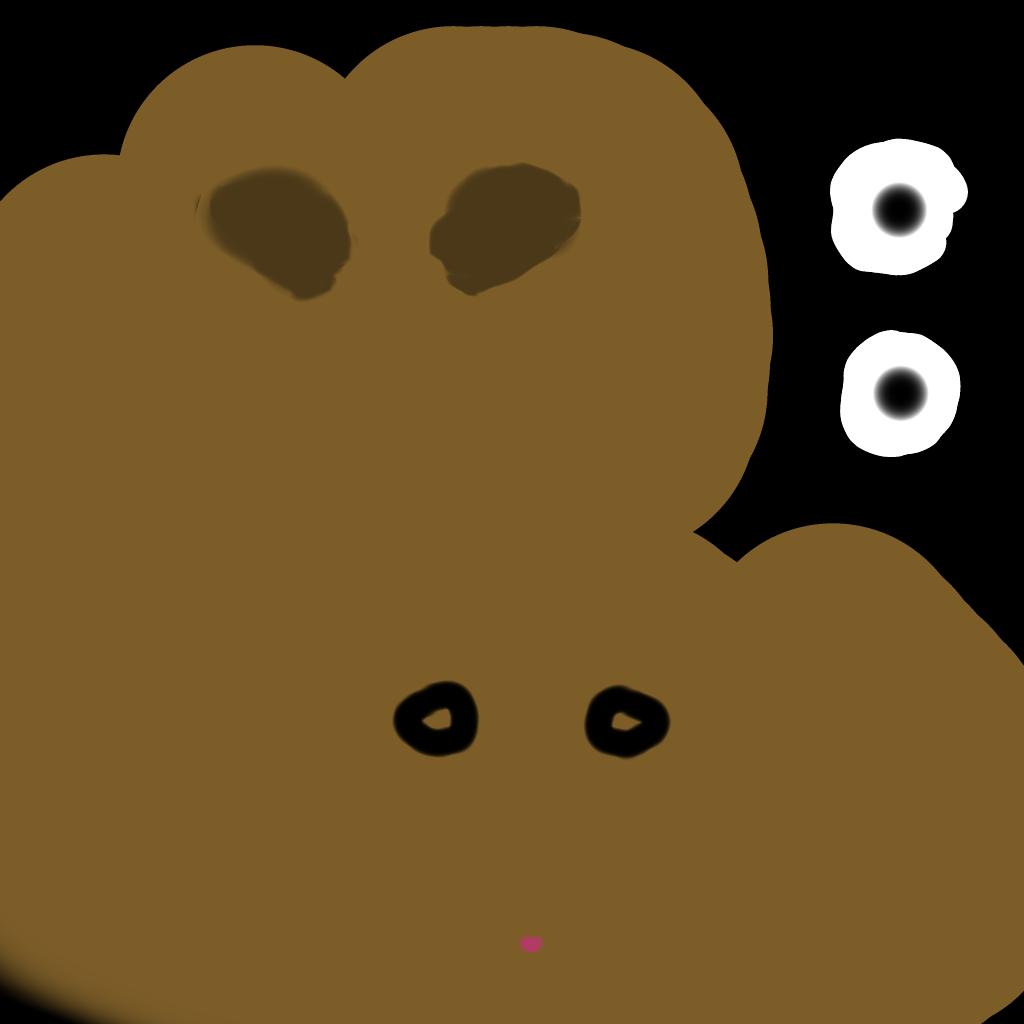
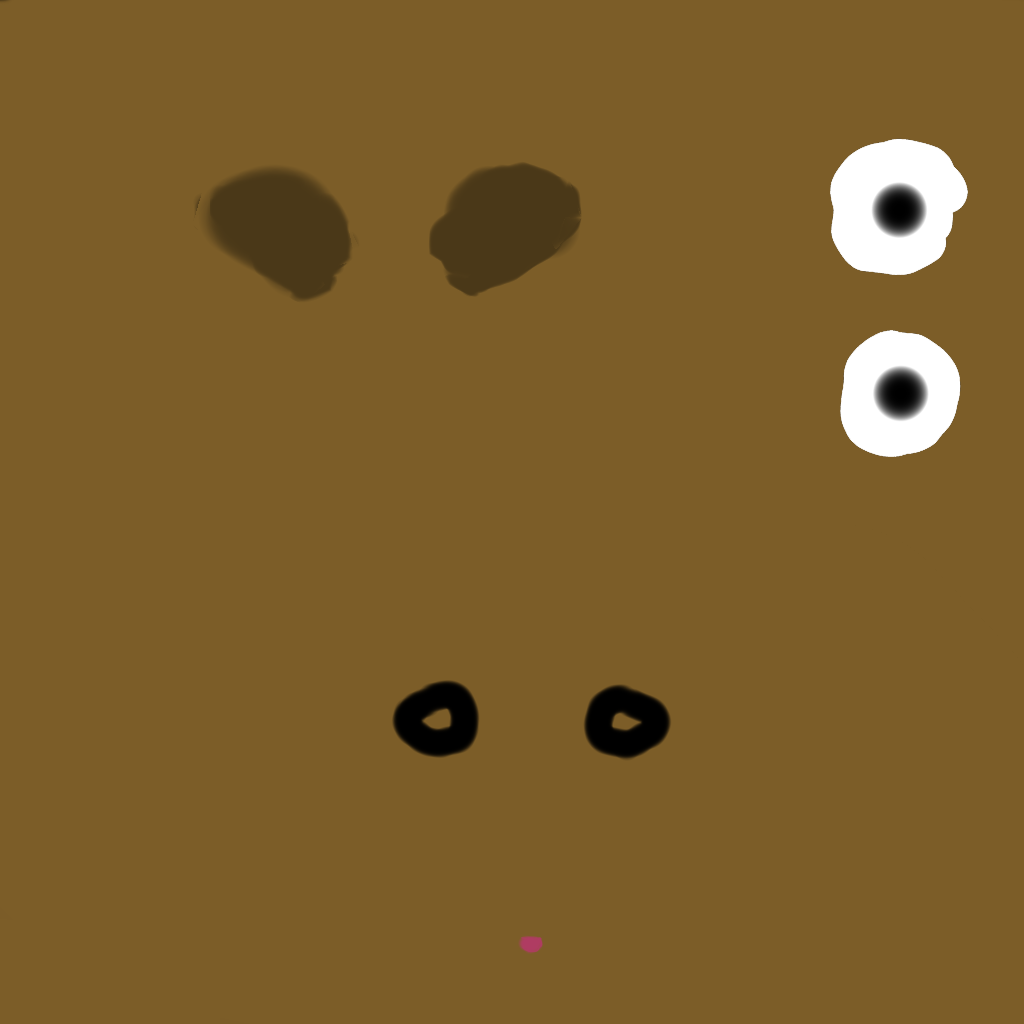
Backface culling

Changed region(s): [[0.0, 0.0, 1.0, 0.6562], [0.0, 0.9375, 0.125, 1.0], [0.9688, 0.9688, 1.0, 1.0]]

diff --git a/CustomDraw.cpp b/CustomDraw.cpp
@@ -264,6 +264,14 @@ void CustomFrame::draw_triangle(Pixels pixs, const DrawCommand& cmd)
         };
         for (auto& v: trans_vpos)
             v.pos/=v.pos.w;
+        {
+            //BACKFACE CULLING
+            glm::vec3 v0v1 = (trans_vpos[1].pos-trans_vpos[0].pos);
+            glm::vec3 v0v2 = (trans_vpos[2].pos-trans_vpos[0].pos);
+            if ((v0v1.x * v0v2.y - v0v2.x * v0v1.y)<0)
+                continue;
+
+        }
         std::sort(std::begin(trans_vpos), std::end(trans_vpos), [](const Vertex& p1, const Vertex& p2) { return p1.pos.y<p2.pos.y; });
         VertexBrut vertsb[3]={
             {toScreenSpace(trans_vpos[0].pos), colorraw_t(0)}, 
